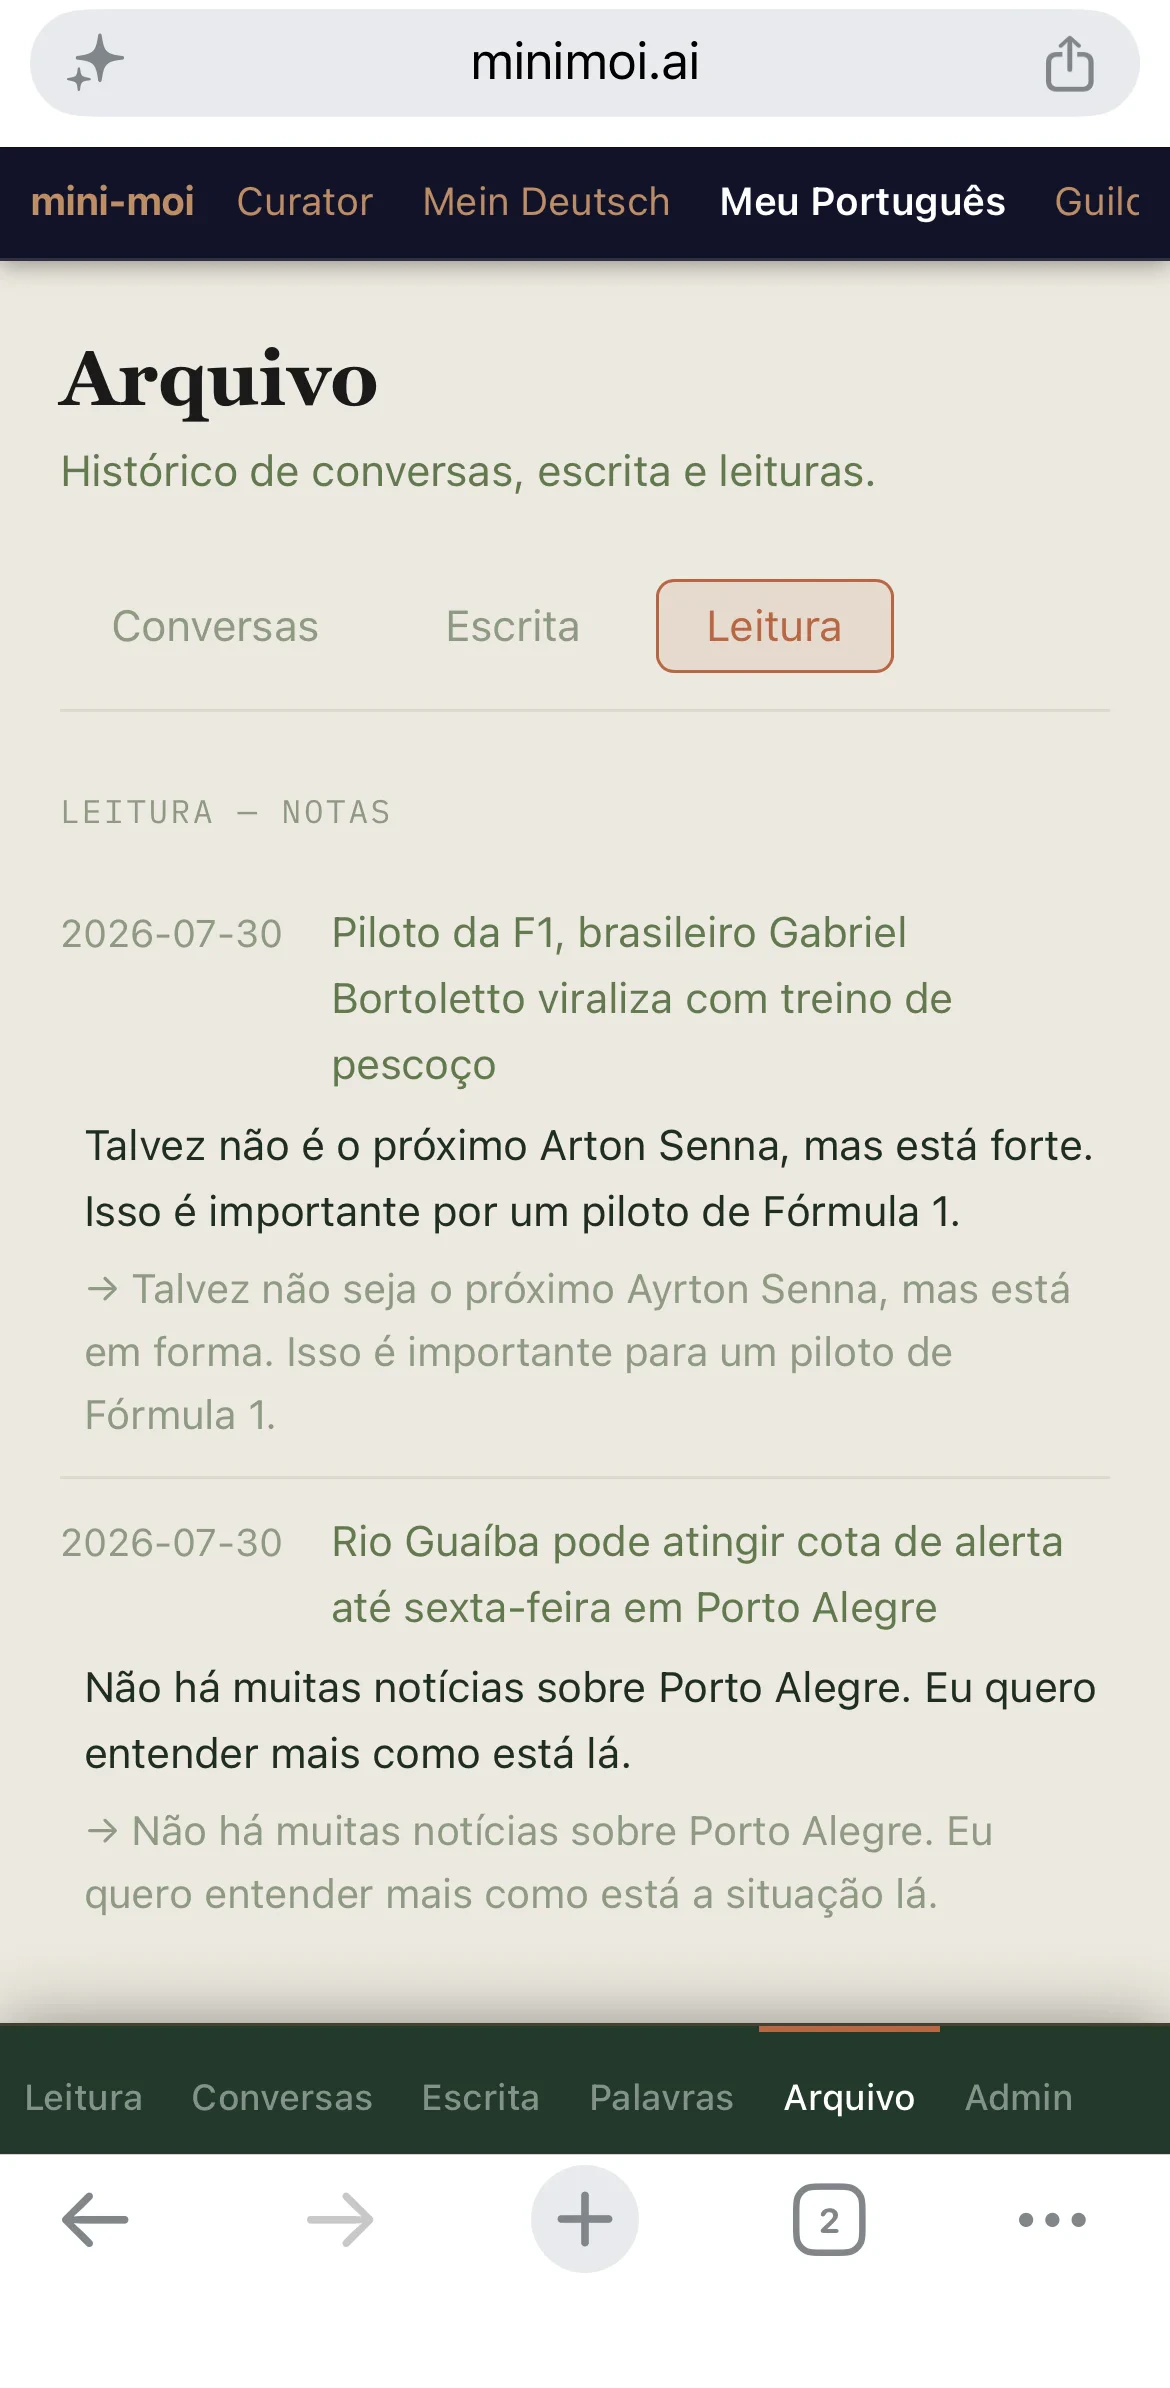
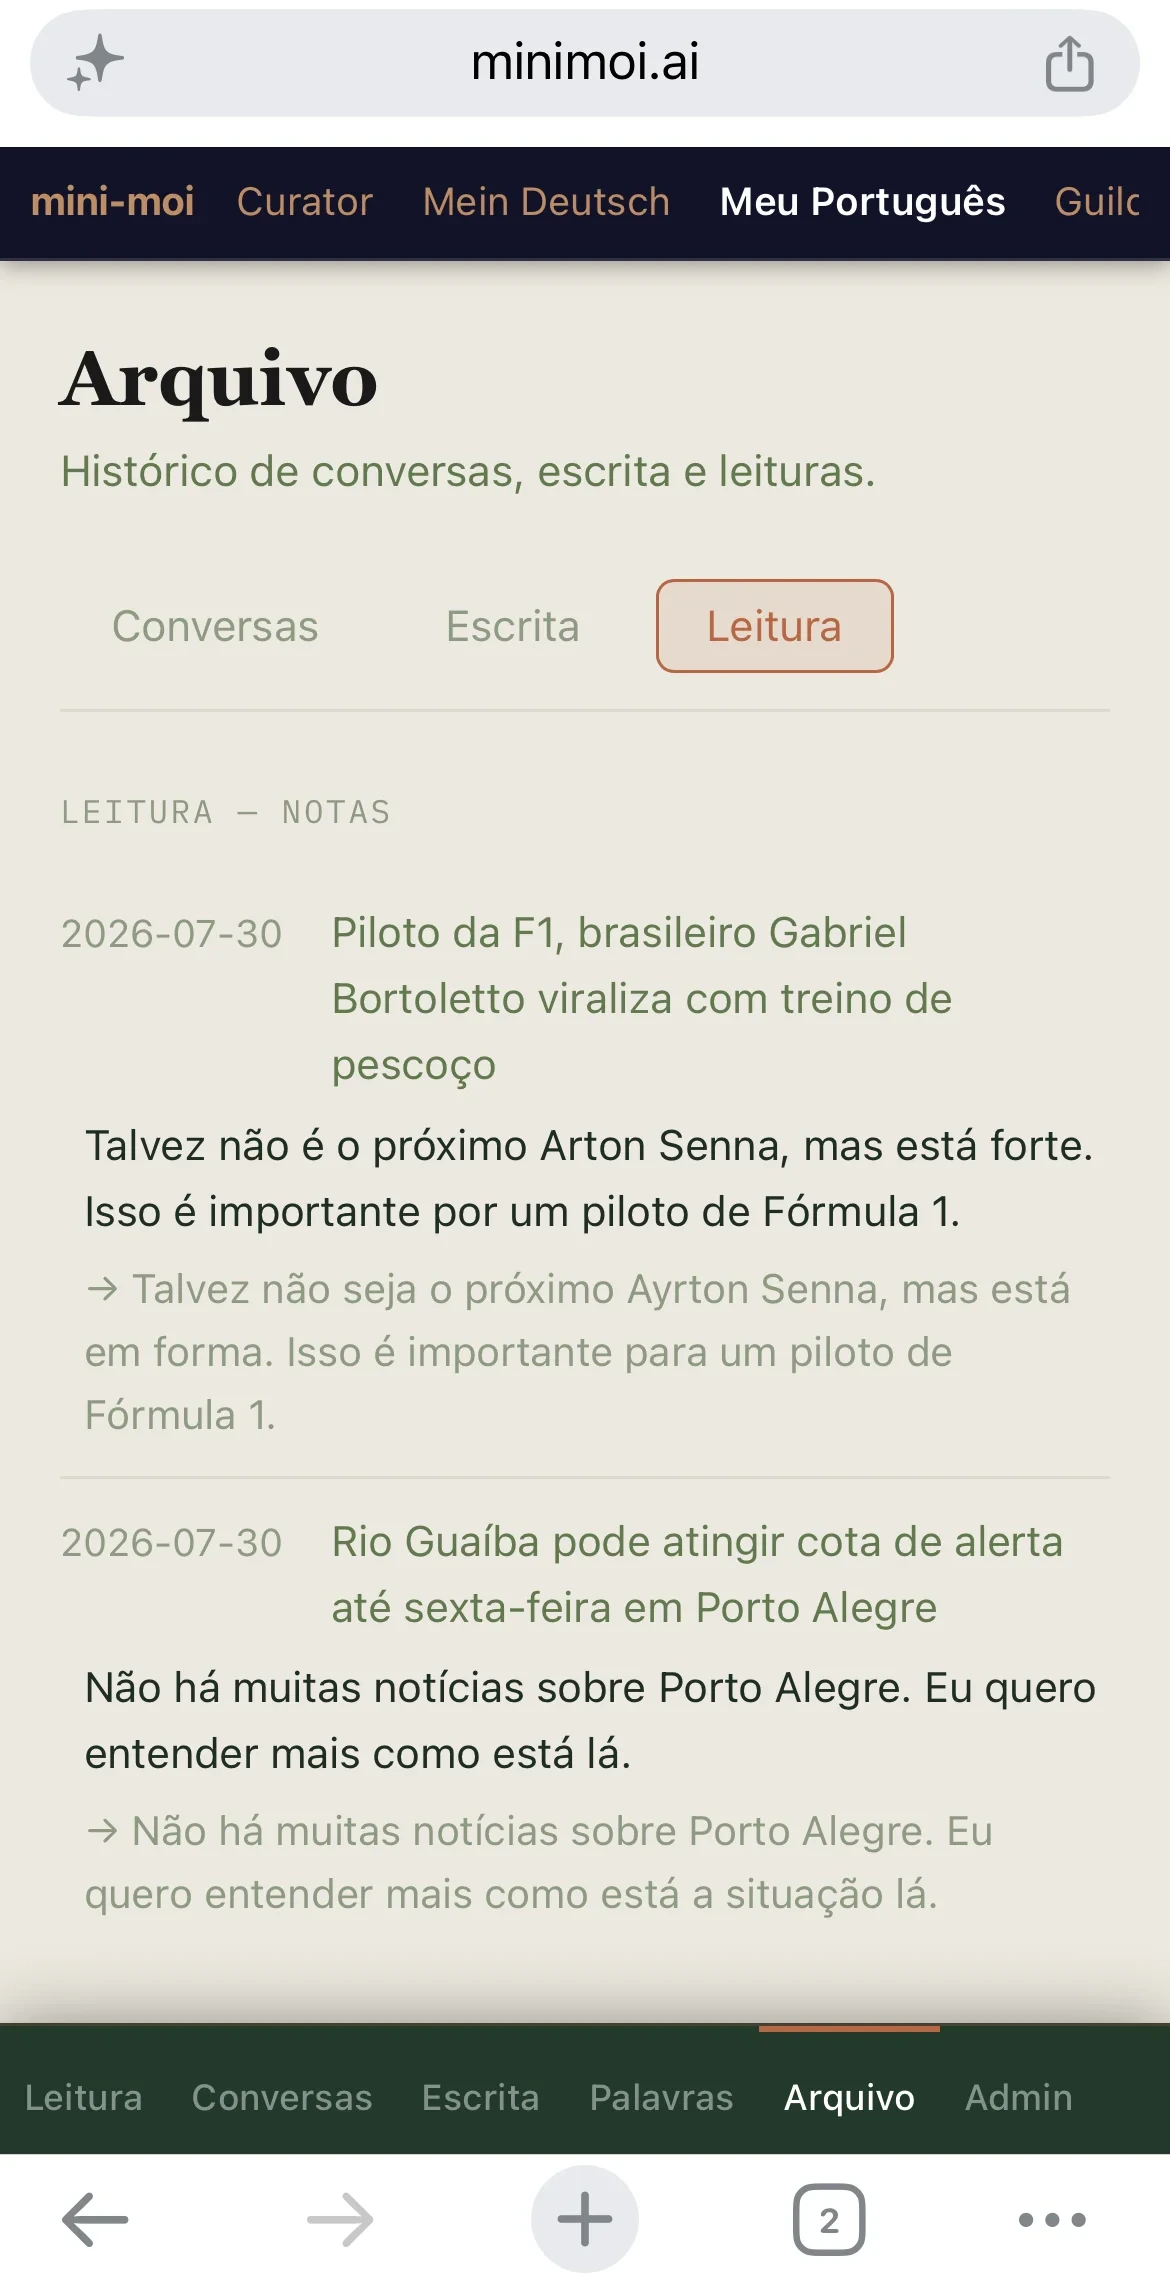
Refine Portuguese mobile tour framing

diff --git a/minimoi_portal/templates/tour.html b/minimoi_portal/templates/tour.html
@@ -8,7 +8,7 @@
   <link rel="icon" href="data:,">
   <link rel="preconnect" href="https://fonts.googleapis.com">
   <link href="https://fonts.googleapis.com/css2?family=Playfair+Display:ital,wght@0,400;0,600;1,400&family=Source+Sans+3:wght@400;500;600&display=swap" rel="stylesheet">
-  <link rel="stylesheet" href="/static/portal.css?v=20260727-ui13">
+  <link rel="stylesheet" href="/static/portal.css?v=20260730-ui14">
 </head>
 <body class="tour">
 
@@ -433,39 +433,39 @@
     </div>
     <div class="tour-mobile-gallery" hidden>
       <a class="tour-mobile-shot-link"
-         href="/static/tour/portuguese-mobile-landing.webp"
+         href="/static/tour/portuguese-mobile-landing.webp?v=20260730-trim2"
          data-caption="01 Enter a Portuguese immersion space"
          data-alt="Meu Português landing page"></a>
       <a class="tour-mobile-shot-link"
-         href="/static/tour/portuguese-reading-categories.webp"
+         href="/static/tour/portuguese-reading-categories.webp?v=20260730-trim2"
          data-caption="02 Choose a reading path"
          data-alt="Meu Português reading choices"></a>
       <a class="tour-mobile-shot-link"
-         href="/static/tour/portuguese-reading-list.webp"
+         href="/static/tour/portuguese-reading-list.webp?v=20260730-trim2"
          data-caption="03 Pick a current article"
          data-alt="Meu Português article list"></a>
       <a class="tour-mobile-shot-link"
-         href="/static/tour/portuguese-reading-article.webp"
+         href="/static/tour/portuguese-reading-article.webp?v=20260730-trim2"
          data-caption="04 Read in context"
          data-alt="Meu Português article reading view"></a>
       <a class="tour-mobile-shot-link"
-         href="/static/tour/portuguese-reading-correction.webp"
+         href="/static/tour/portuguese-reading-correction.webp?v=20260730-trim2"
          data-caption="05 Write and review corrections"
          data-alt="Meu Português writing correction"></a>
       <a class="tour-mobile-shot-link"
-         href="/static/tour/portuguese-conversation-choice.webp"
+         href="/static/tour/portuguese-conversation-choice.webp?v=20260730-trim2"
          data-caption="06 Choose a voice conversation"
          data-alt="Meu Português conversation persona choices"></a>
       <a class="tour-mobile-shot-link"
-         href="/static/tour/portuguese-voice-transcript.webp"
+         href="/static/tour/portuguese-voice-transcript.webp?v=20260730-trim2"
          data-caption="07 Review the conversation transcript"
          data-alt="Meu Português voice conversation transcript"></a>
       <a class="tour-mobile-shot-link"
-         href="/static/tour/portuguese-voice-coaching.webp"
+         href="/static/tour/portuguese-voice-coaching.webp?v=20260730-trim2"
          data-caption="08 Turn the conversation into coaching"
          data-alt="Meu Português voice coaching and corrections"></a>
       <a class="tour-mobile-shot-link"
-         href="/static/tour/portuguese-learning-archive.webp"
+         href="/static/tour/portuguese-learning-archive.webp?v=20260730-trim2"
          data-caption="09 Carry progress into the archive"
          data-alt="Meu Português learning archive"></a>
     </div>

diff --git a/minimoi_portal/static/portal.css b/minimoi_portal/static/portal.css
@@ -2063,7 +2063,7 @@ body.admin { background: var(--parch-mid); }
     padding:
       0.65rem
       max(0.85rem, env(safe-area-inset-right))
-      max(0.65rem, env(safe-area-inset-bottom))
+      0.55rem
       max(0.85rem, env(safe-area-inset-left));
     align-items: center;
     font-size: 0.82rem;

diff --git a/tests/test_auth.py b/tests/test_auth.py
@@ -308,15 +308,15 @@ def test_public_tour_is_chooser_only_with_privacy_safe_cos(client):
     assert len(soup.select("section#cos .tour-shot")) == 2
     expected_mobile_hrefs = {
         "portuguese": [
-            "/static/tour/portuguese-mobile-landing.webp",
-            "/static/tour/portuguese-reading-categories.webp",
-            "/static/tour/portuguese-reading-list.webp",
-            "/static/tour/portuguese-reading-article.webp",
-            "/static/tour/portuguese-reading-correction.webp",
-            "/static/tour/portuguese-conversation-choice.webp",
-            "/static/tour/portuguese-voice-transcript.webp",
-            "/static/tour/portuguese-voice-coaching.webp",
-            "/static/tour/portuguese-learning-archive.webp",
+            "/static/tour/portuguese-mobile-landing.webp?v=20260730-trim2",
+            "/static/tour/portuguese-reading-categories.webp?v=20260730-trim2",
+            "/static/tour/portuguese-reading-list.webp?v=20260730-trim2",
+            "/static/tour/portuguese-reading-article.webp?v=20260730-trim2",
+            "/static/tour/portuguese-reading-correction.webp?v=20260730-trim2",
+            "/static/tour/portuguese-conversation-choice.webp?v=20260730-trim2",
+            "/static/tour/portuguese-voice-transcript.webp?v=20260730-trim2",
+            "/static/tour/portuguese-voice-coaching.webp?v=20260730-trim2",
+            "/static/tour/portuguese-learning-archive.webp?v=20260730-trim2",
         ],
         "guild": [
             "/static/tour/guild-mobile-landing.webp",
@@ -341,7 +341,10 @@ def test_public_tour_is_chooser_only_with_privacy_safe_cos(client):
         ]
         assert mobile_hrefs == expected_hrefs
         assert all(
-            (static_root / href.removeprefix("/static/")).is_file()
+            (
+                static_root
+                / href.split("?", 1)[0].removeprefix("/static/")
+            ).is_file()
             for href in mobile_hrefs
         )
     assert all(section.has_attr("hidden") for section in soup.select(".tour-section"))

diff --git a/minimoi_portal/workspaces.py b/minimoi_portal/workspaces.py
@@ -33,7 +33,7 @@ WORKSPACES = (
         "path": "/app/portuguese",
         "eyebrow": "Language immersion",
         "summary": "Reading and real-world practice for a multilingual household.",
-        "image": "/static/tour/portuguese-mobile-landing.webp",
+        "image": "/static/tour/portuguese-landing.jpg",
         "public_visible": True,
     },
     {
@@ -42,7 +42,7 @@ WORKSPACES = (
         "path": "/guild",
         "eyebrow": "Build and operations",
         "summary": "Specs, build work, operating status, and the next iteration.",
-        "image": "/static/tour/guild-mobile-landing.webp",
+        "image": "/static/tour/guild-landing.png",
         "public_visible": True,
     },
     {
